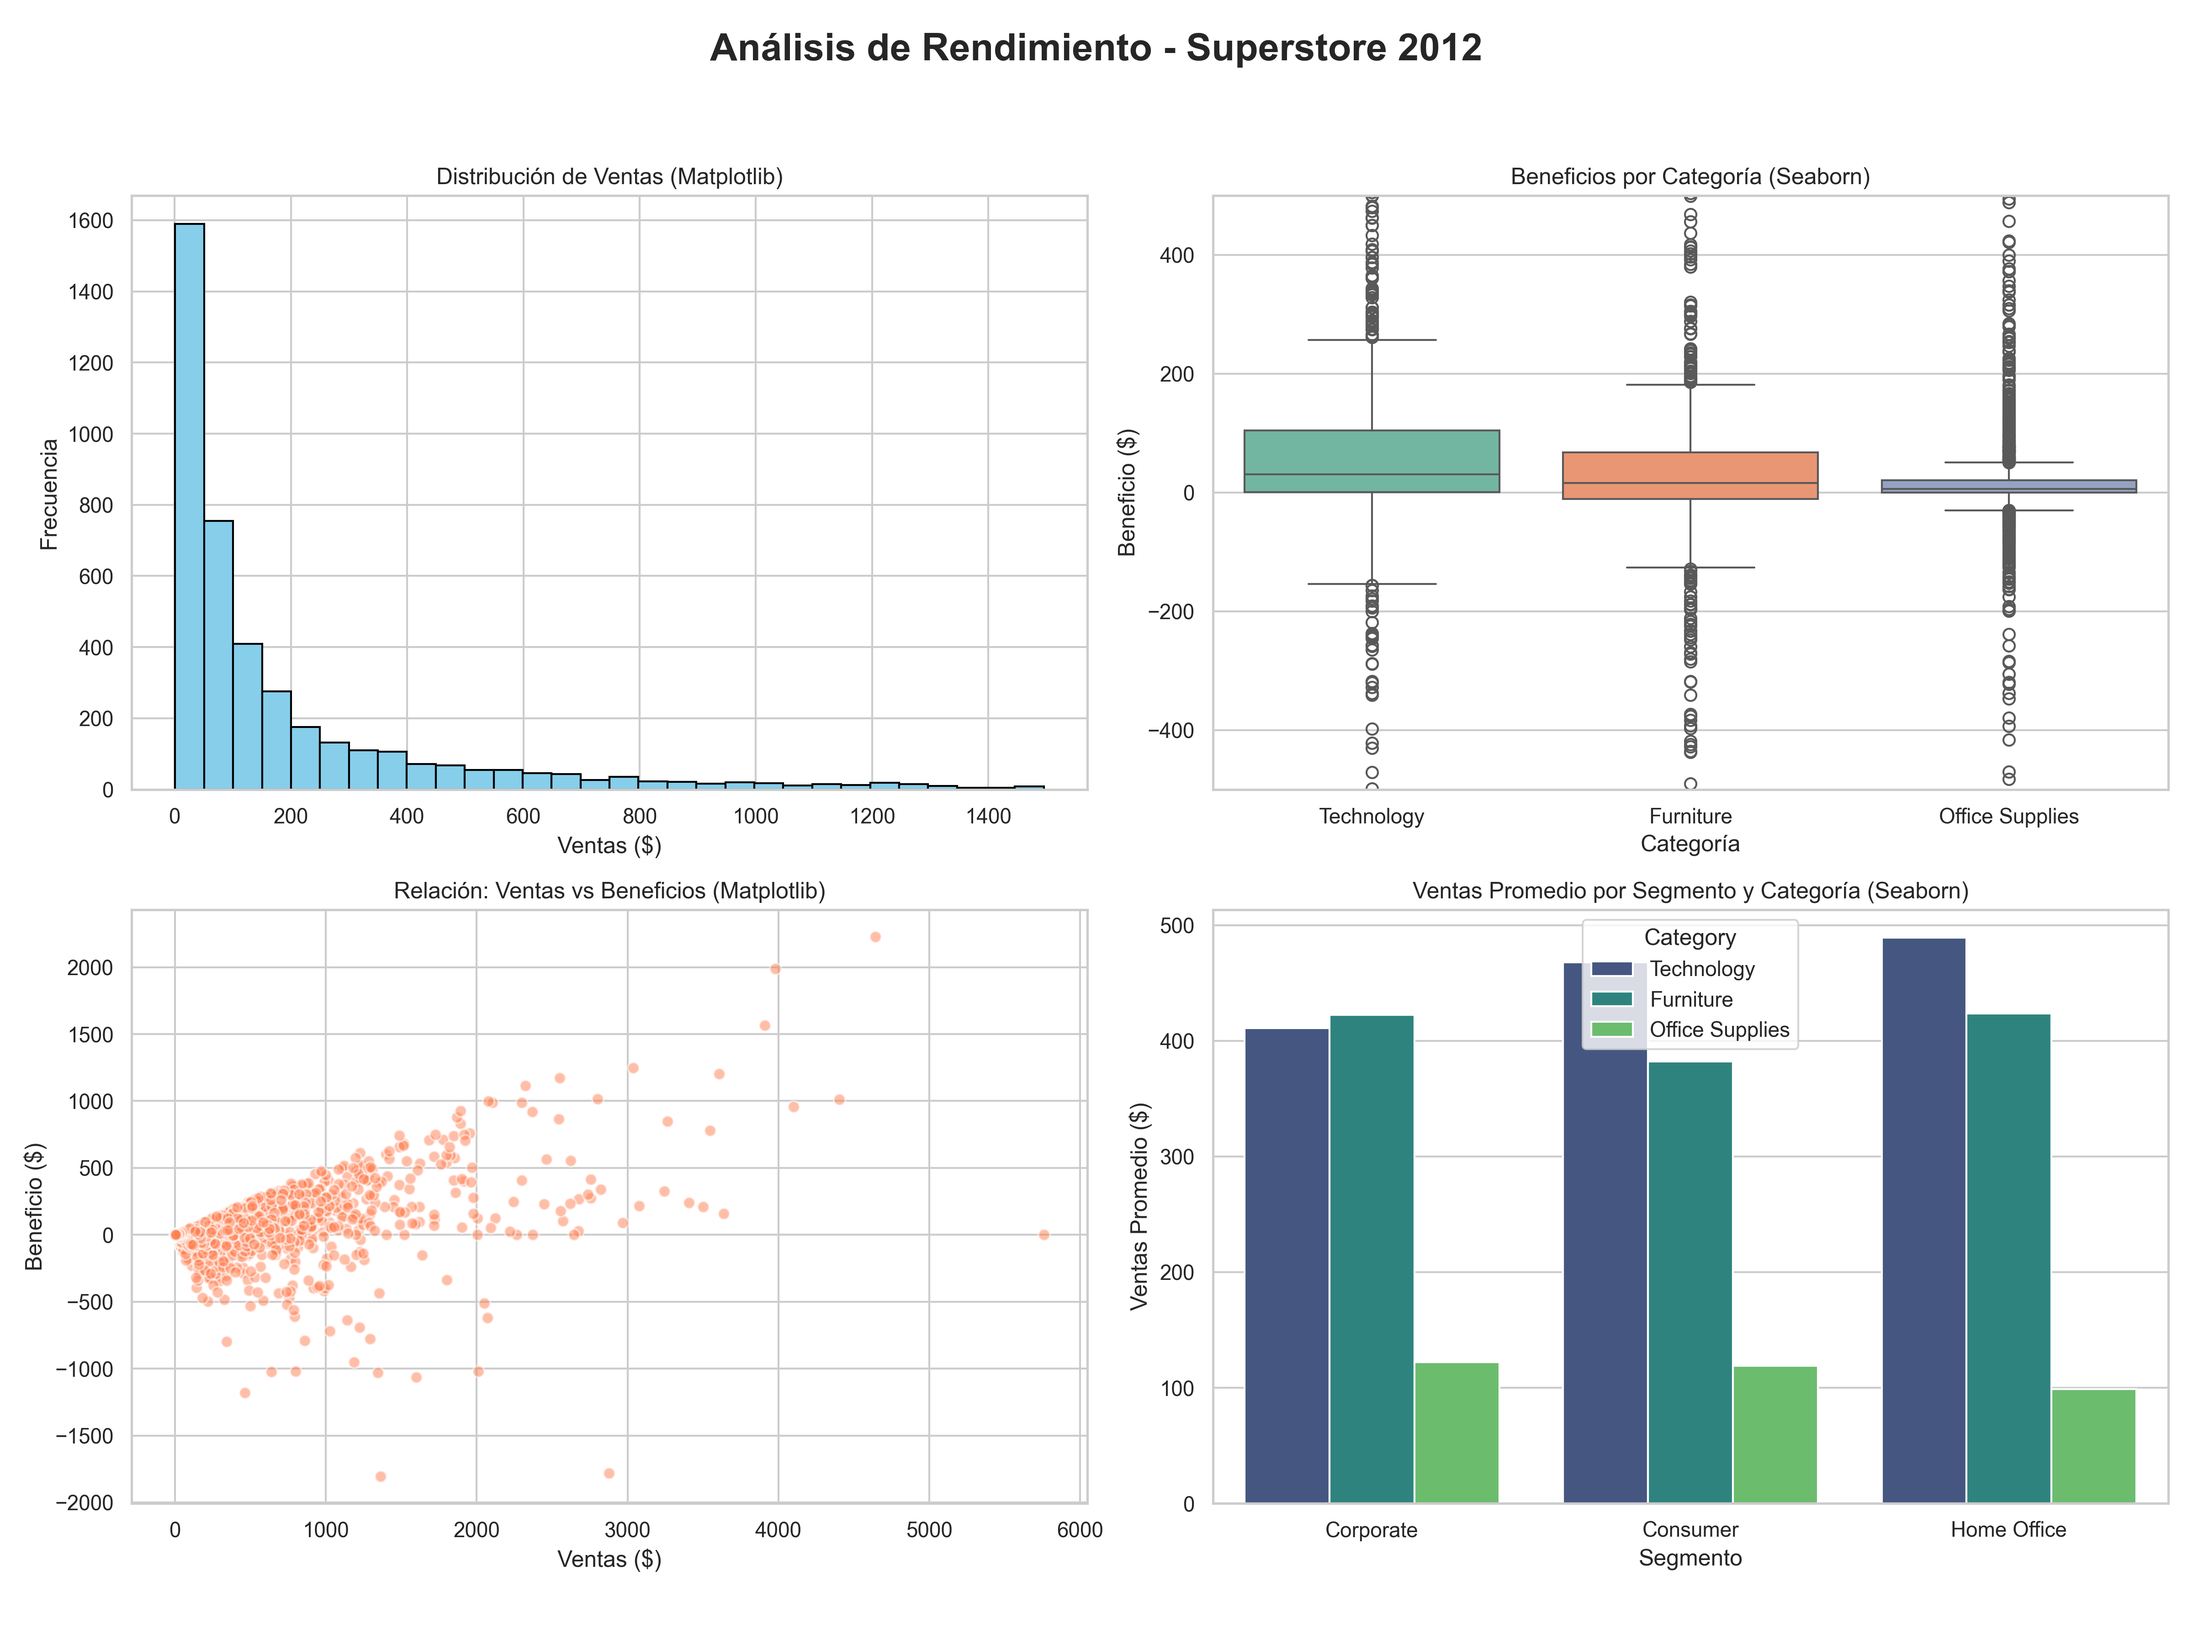
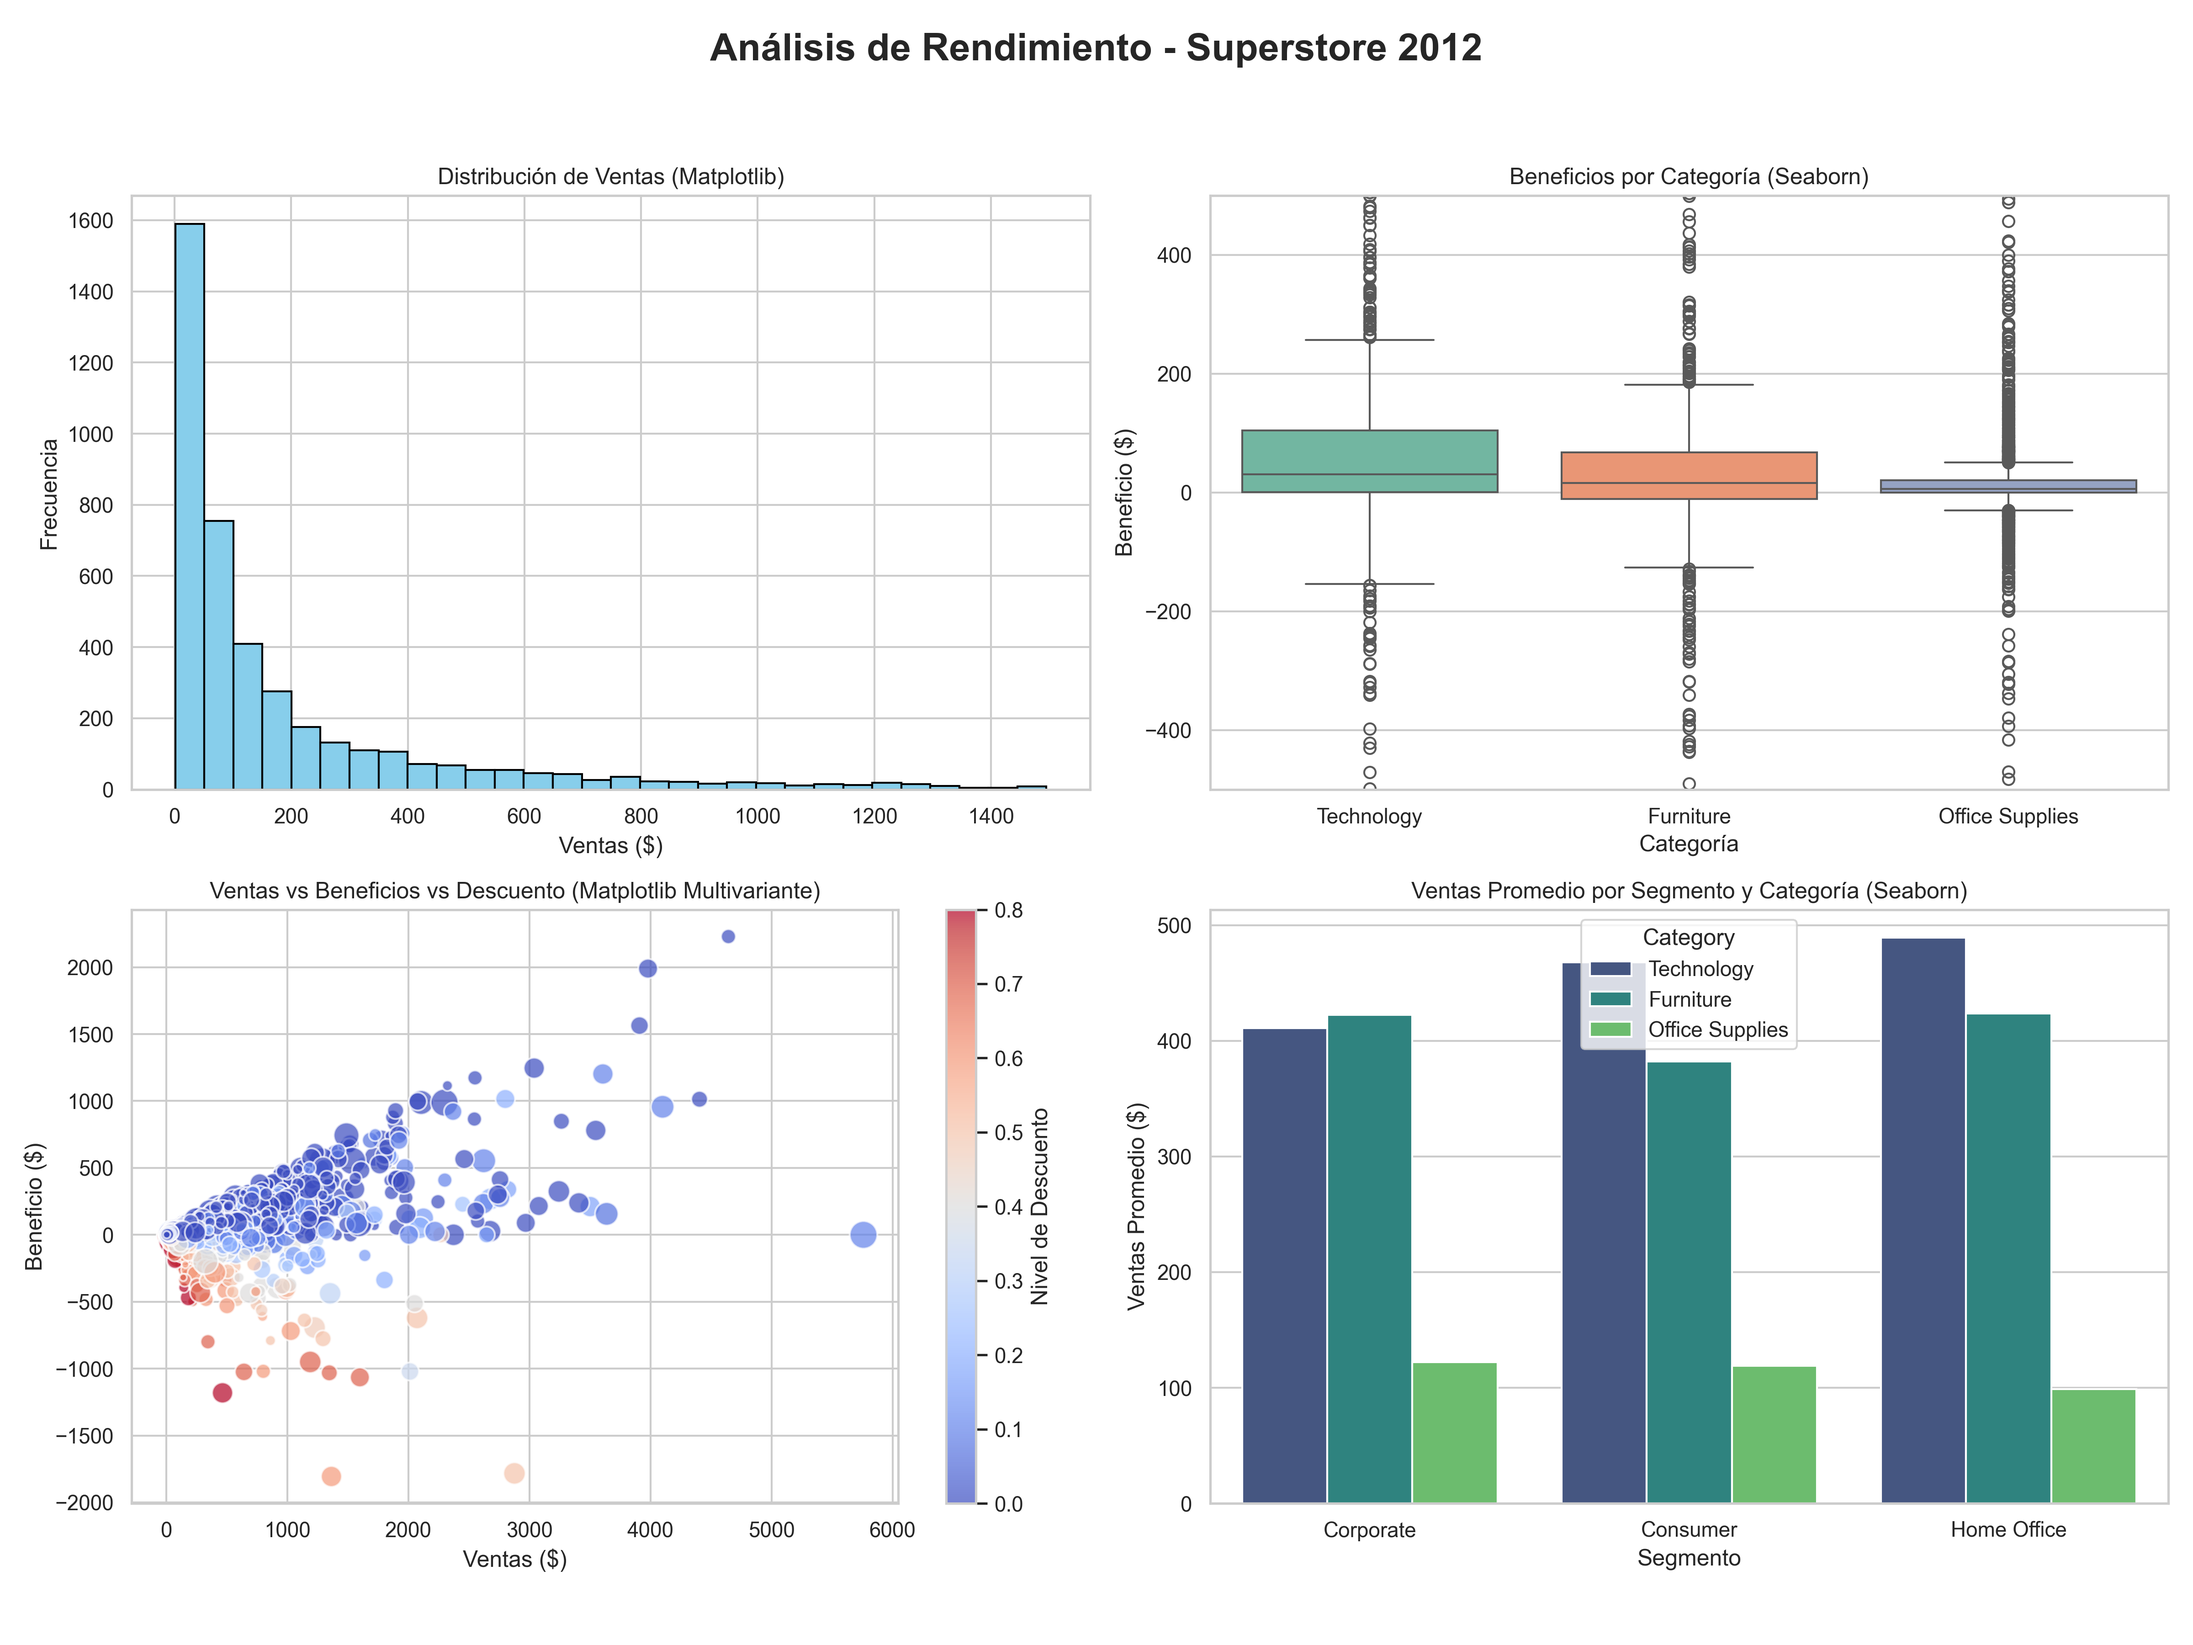
segunda versión de visualización de datos

diff --git a/visualizacion_datos.py b/visualizacion_datos.py
@@ -50,14 +50,26 @@ axes[0, 1].set_xlabel('Categoría')
 axes[0, 1].set_ylabel('Beneficio ($)')
 # Conclusión: La categoría "Technology" tiene una mediana de beneficios más alta, pero también una dispersión considerable. "Furniture" tiene muchos valores atípicos negativos (pérdidas).
 
-# --- Gráfico 3: Bivariante con Matplotlib (Gráfico de Dispersión) ---
-# Relación entre Ventas y Beneficios
-axes[1, 0].scatter(df['Sales'], df['Profit'], alpha=0.5, color='coral', edgecolor='white')
-axes[1, 0].set_title('Relación: Ventas vs Beneficios (Matplotlib)')
+# --- Gráfico 3: Multivariante con Matplotlib (Gráfico de Dispersión Modificado) ---
+# Relación entre Ventas (X), Beneficios (Y), Descuento (Color) y Cantidad (Tamaño)
+scatter_multi = axes[1, 0].scatter(
+    df['Sales'], 
+    df['Profit'], 
+    c=df['Discount'],        # Tercera variable: El color representa el nivel de descuento
+    cmap='coolwarm',         # Paleta de colores (azul = bajo descuento, rojo = alto descuento)
+    s=df['Quantity'] * 15,   # Cuarta variable: El tamaño representa la cantidad (multiplicado para visibilidad)
+    alpha=0.7, 
+    edgecolor='white'
+)
+axes[1, 0].set_title('Ventas vs Beneficios vs Descuento (Matplotlib Multivariante)')
 axes[1, 0].set_xlabel('Ventas ($)')
 axes[1, 0].set_ylabel('Beneficio ($)')
-# Conclusión: A medida que aumentan las ventas, los beneficios tienden a aumentar, pero también el riesgo; se observan casos de grandes pérdidas en ventas de alto volumen.
 
+# Agregar una barra de color (leyenda) para la tercera variable
+cbar = fig.colorbar(scatter_multi, ax=axes[1, 0])
+cbar.set_label('Nivel de Descuento')
+
+# Conclusión Multivariante: El gráfico muestra claramente que las mayores pérdidas (puntos en la parte inferior del eje Y) coinciden sistemáticamente con los tonos rojos, es decir, con los descuentos más altos. El tamaño de los puntos también indica que incluso en volúmenes altos de artículos (puntos grandes), un descuento excesivo erosiona completamente el margen de beneficio.
 # --- Gráfico 4: Bivariante con Seaborn (Barplot Agrupado) ---
 # Ventas promedio por Segmento y Categoría
 sns.barplot(data=df, x='Segment', y='Sales', hue='Category', ax=axes[1, 1], palette='viridis', errorbar=None)
